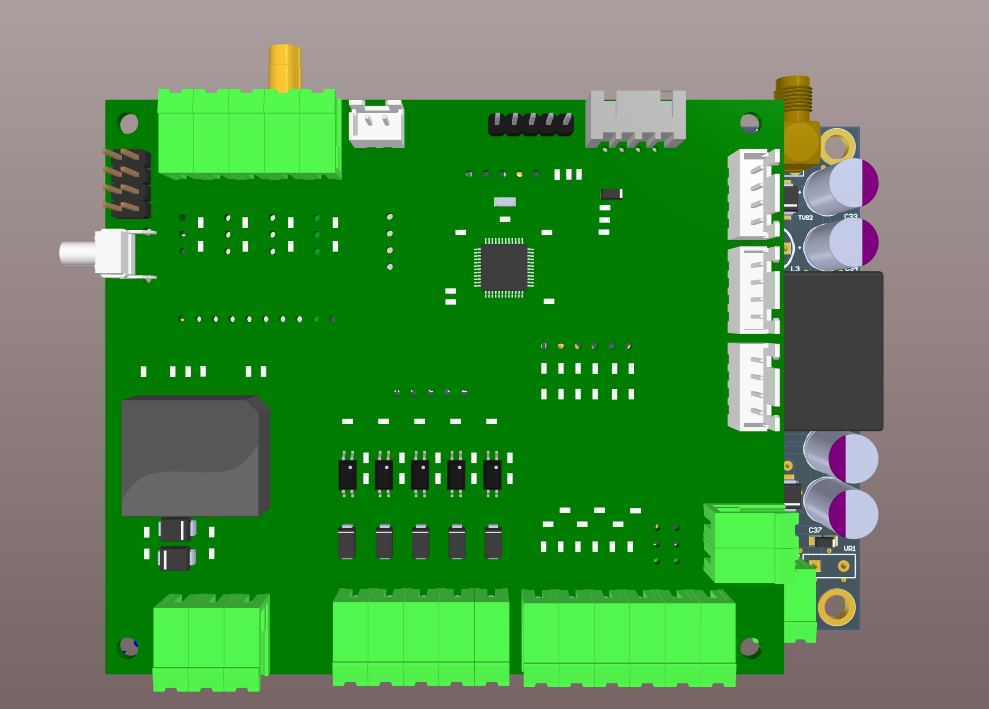
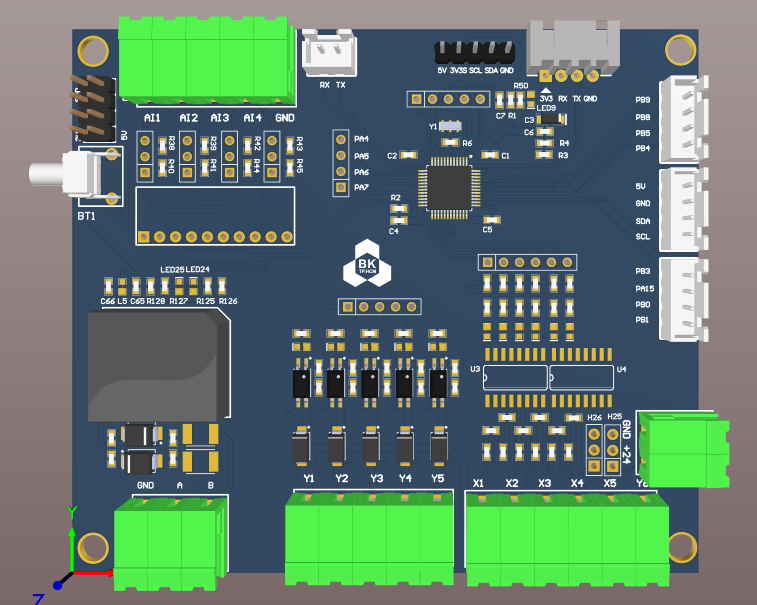
update readme

diff --git a/README.md b/README.md
@@ -26,7 +26,8 @@ The **IIOT STM32 Extension Board** works alongside the ESP32 in IIOT application
 |-------------|-----------------------------------|
 | **Top View**    | ![Top View](Image/TOP.png)      |
 | **Bottom View** | ![Bottom View](Image/FRONTLEFT.png) |
-
+| **Layout Top**    | ![Layout Top](Image/Layout_TOP.png)      |
+| **Layout Bottom** | ![Layout Bottom](Image/Layout_Bottom.png) |
 ## 🚀 Getting Started
 To begin using the **IIOT STM32 Extension Board**:
 1. Connect the board to the **IIOT ESP32** using the provided interface connectors.
